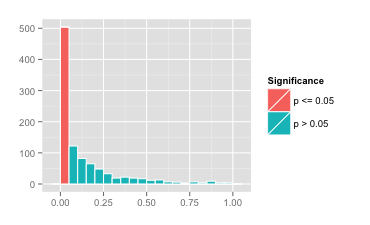
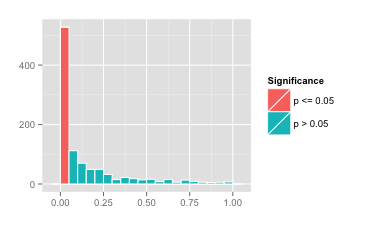
Fix R code for calculating p values

diff --git a/_posts/2014-04-26-warning-beware-the-p.md b/_posts/2014-04-26-warning-beware-the-p.md
@@ -86,10 +86,10 @@ ugly to reprint here but accessible in R by invoking the ```pt``` function.
 
 === output below ===
 
-[1] 507
-[1] 493
+[1] 528
+[1] 472
      Min.   1st Qu.    Median      Mean   3rd Qu.      Max.
-0.0000004 0.0097810 0.0492300 0.1442000 0.1667000 0.9846000
+0.0000017 0.0086350 0.0418600 0.1444000 0.1918000 0.9951000
 </pre>
 
 This yields the pretty histogram below.
@@ -98,14 +98,14 @@ This yields the pretty histogram below.
 
 In particular, we see that among 1000 simulated experiments, we have
 
-* 507 simulations with $$p$$ values less than or equal to 0.05, thus
+* 528 simulations with $$p$$ values less than or equal to 0.05, thus
  statistically significant by convention
 
-* 493 with $$p$$ values that are not significant by the same convention
+* 472 with $$p$$ values that are not significant by the same convention
 
-* A minimum $$p$$ value of 0.0000004
+* A minimum $$p$$ value of 0.0000017
 
-* A maximum $$p$$ value of 0.9846
+* A maximum $$p$$ value of 0.9951
 
 This yields an almost 50/50 split between "significant" and "not significant".
 With a sample size of only 32, the $$p$$ value is not a reliable measure of
@@ -125,13 +125,13 @@ and 100. This yielded the following two histograms for $$p$$ values.
 <img style="float:left; width: 270px; padding:10px" src="/assets/data/pHist_10.png" alt=""/>
 <img style="float:right; width: 270px; padding:10px" src="/assets/data/pHist_100.png" alt=""/>
 
-The small sample size 10 had 180 out of 1000 simulations yielding a $$p$$
+The small sample size 10 had 189 out of 1000 simulations yielding a $$p$$
 value of below 0.05. The histogram of $$p$$ values is on the left. Although
 these could be labelled as "statistically significant" by an unscrupulous
 researcher, we claim that none of the results are particularly significant; they
 just happen to be lucky.
 
-The larger sample size 100 jad 953 out of 1000 simulations yielding a $$p$$
+The larger sample size 100 had 943 out of 1000 simulations yielding a $$p$$
 value of below 0.05. The histogram of $$p$$ values is on the right. The $$p$$
 value in this case is much more reliable. Perhaps we should revise our original
 statement to say "don't trust $$p$$ *for small experiments*."
